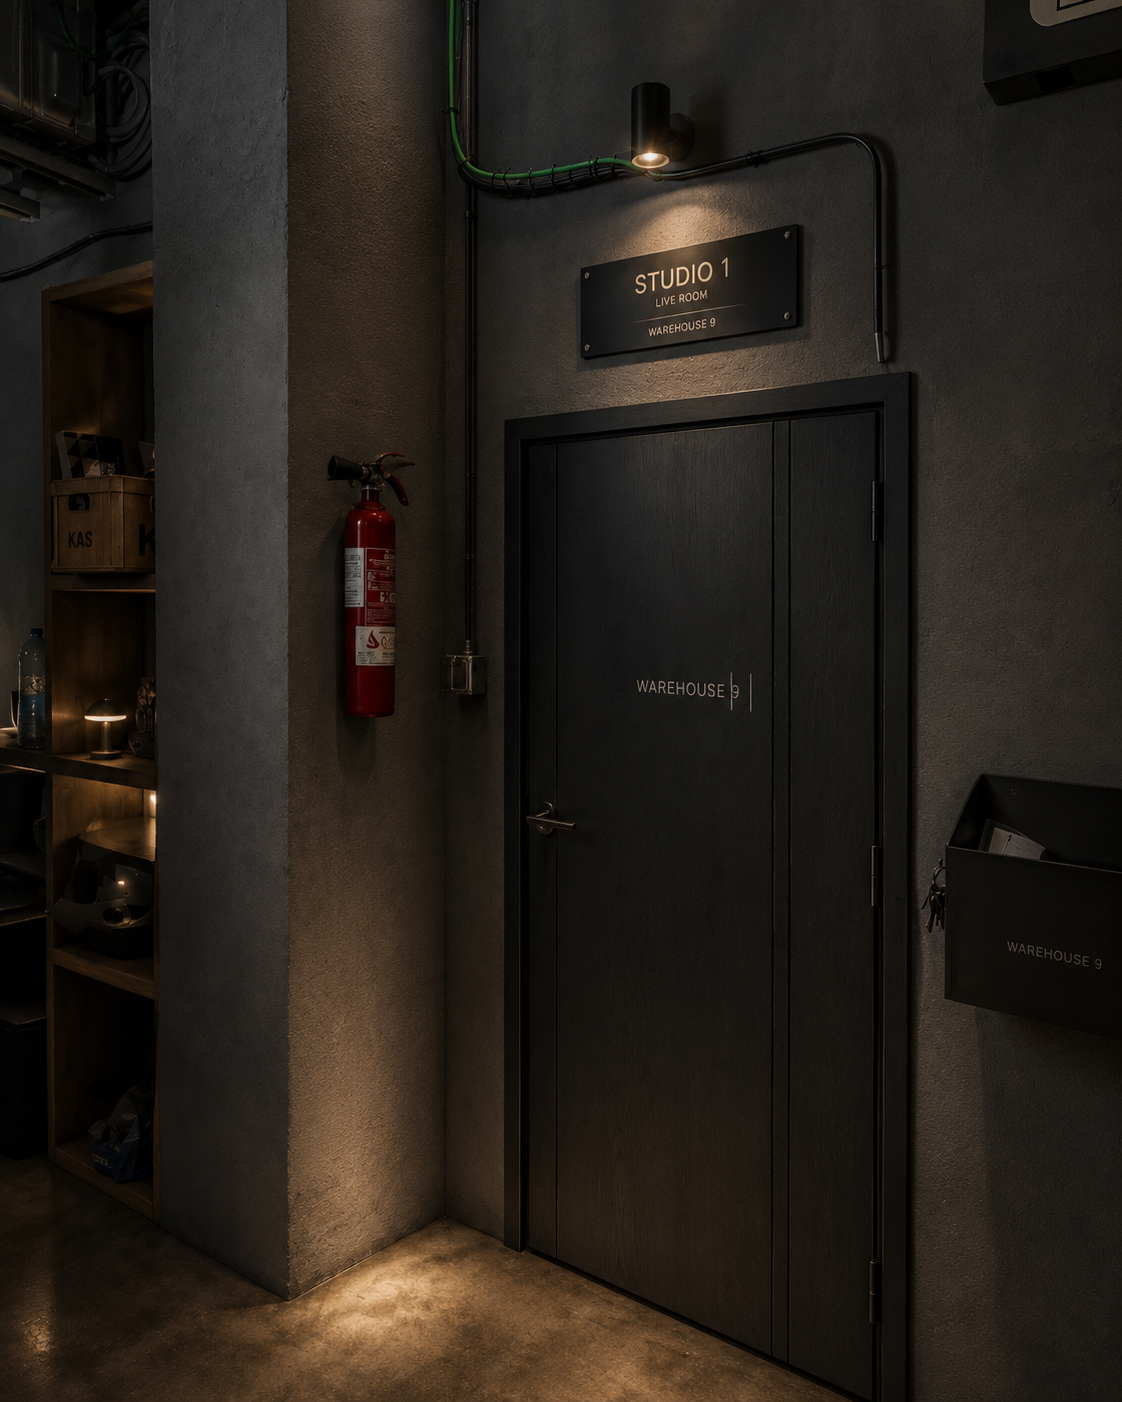
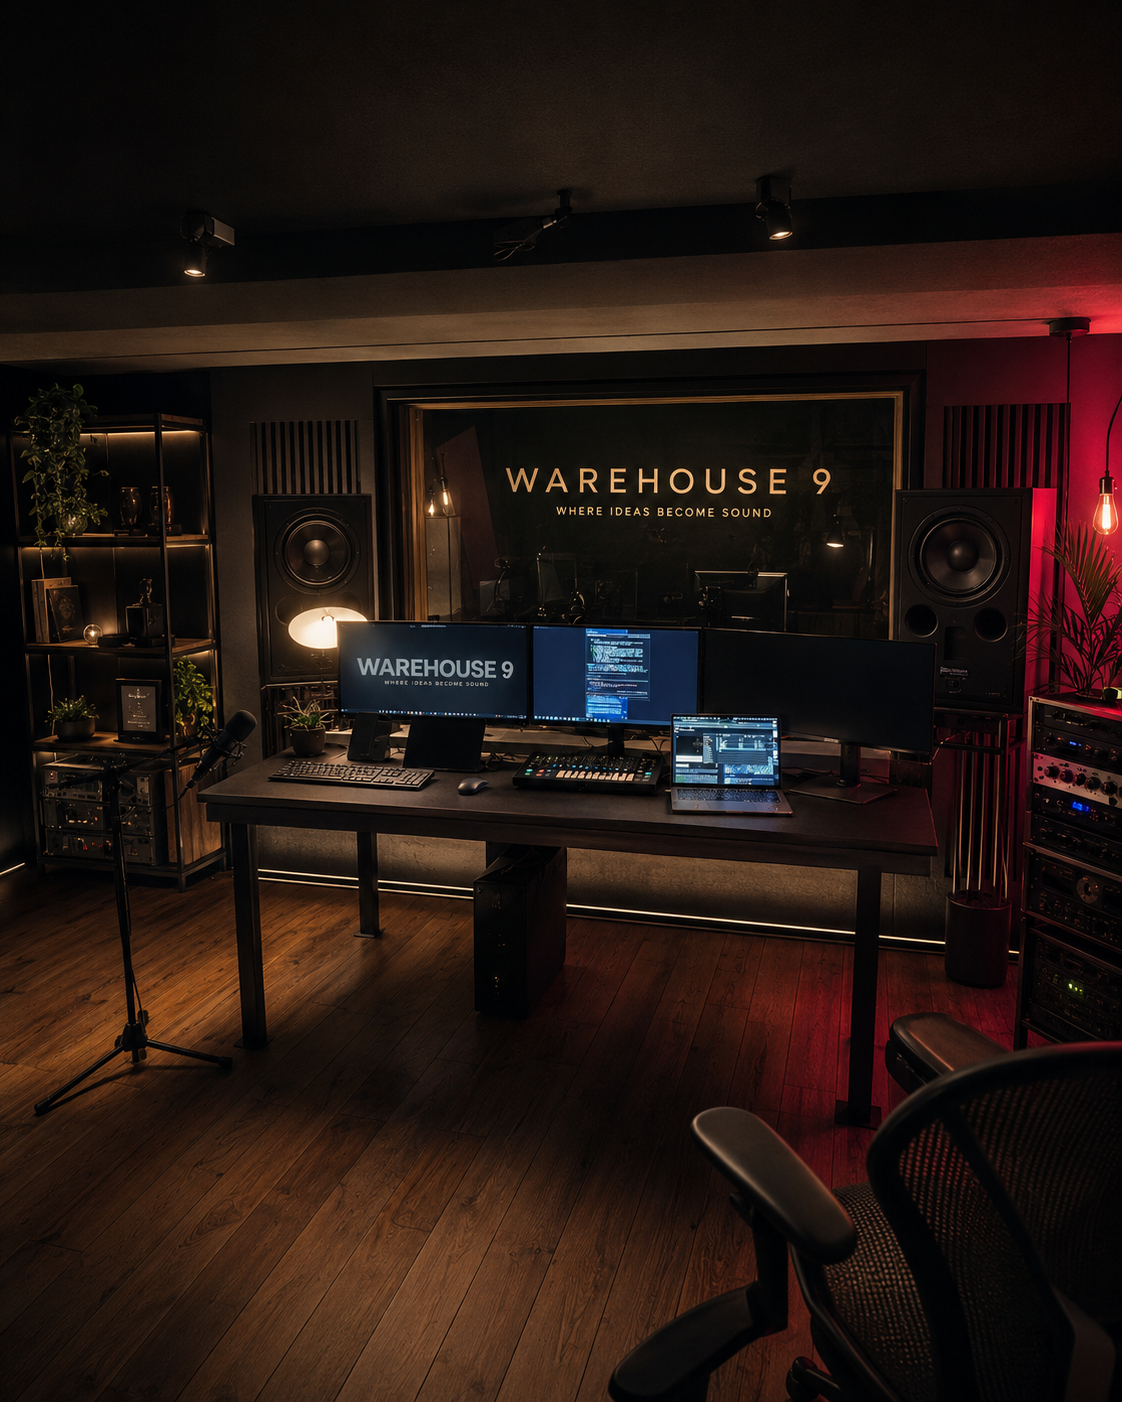
Use real interior photos for Control Room (studio) and Live Room; footer address Ferrer i Vidal, 9

diff --git a/index.html b/index.html
@@ -230,7 +230,7 @@
         <div class="bg-black"><img src="assets/control-room.png" alt="Control Room" class="w-full h-40 object-cover" /><div class="p-6"><span class="text-acid label text-[11px]">Control Room</span><p class="text-mute text-sm mt-2">Producción, grabación, escucha crítica, mentorías y revisión de tracks.</p></div></div>
         <div class="bg-black"><img src="assets/live-room.png" alt="Live Room" class="w-full h-40 object-cover" /><div class="p-6"><span class="text-acid label text-[11px]">Live Room</span><p class="text-mute text-sm mt-2">Masterclasses, live sets, showcases íntimos y sesiones audiovisuales.</p></div></div>
         <div class="bg-black"><img src="assets/live-set.png" alt="DJ / Performance Setup" class="w-full h-40 object-cover" /><div class="p-6"><span class="text-acid label text-[11px]">DJ / Performance Setup</span><p class="text-mute text-sm mt-2">Preparación, dirección y captura de sets con criterio técnico y artístico.</p></div></div>
-        <div class="bg-black"><img src="assets/estudio.png" alt="Creative Direction" class="w-full h-40 object-cover" /><div class="p-6"><span class="text-acid label text-[11px]">Creative Direction</span><p class="text-mute text-sm mt-2">Un entorno para que lo que haces suene bien, se vea bien y tenga sentido.</p></div></div>
+        <div class="bg-black"><img src="assets/entrada.png" alt="Creative Direction" class="w-full h-40 object-cover object-center" /><div class="p-6"><span class="text-acid label text-[11px]">Creative Direction</span><p class="text-mute text-sm mt-2">Un entorno para que lo que haces suene bien, se vea bien y tenga sentido.</p></div></div>
       </div>
     </div>
   </div>
@@ -353,7 +353,7 @@
     <div class="flex flex-col md:flex-row justify-between gap-10">
       <div>
         <span class="font-display text-3xl tracking-mega">WAREHOUSE&nbsp;<span class="text-acid">9</span></span>
-        <p class="text-mute text-sm mt-3 max-w-xs">A raw creative space for music makers. Barcelona · Nº 9.</p>
+        <p class="text-mute text-sm mt-3 max-w-xs">A raw creative space for music makers. Ferrer i Vidal, 9 · Barcelona.</p>
       </div>
       <div class="grid grid-cols-2 sm:grid-cols-3 gap-8 font-grotesk text-sm">
         <div class="space-y-2">